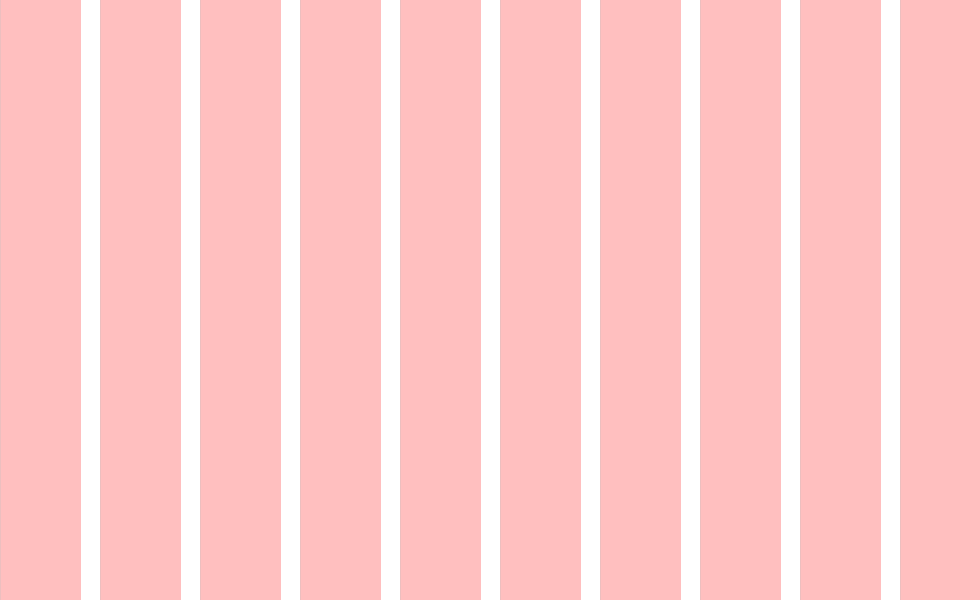
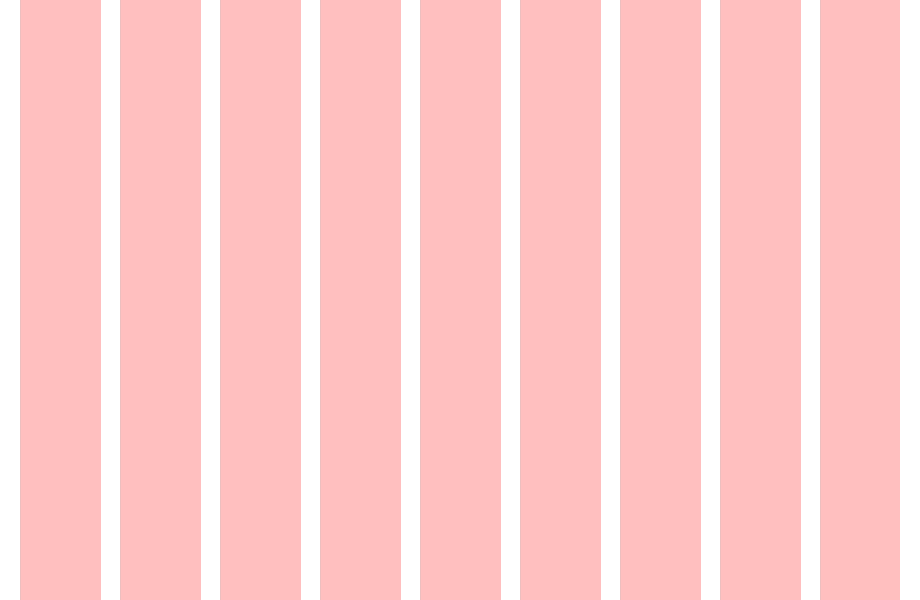
Drop a column from the grid

diff --git a/static/css/pickem.css b/static/css/pickem.css
@@ -4,7 +4,7 @@ html {
 }
 
 body {
-    width: 1020px;
+    width: 920px;
     background-color: #fff;
     margin: 0 auto;
     padding: 0;
@@ -25,10 +25,9 @@ a {
 div#grid {
     height: 100%;
     width: 100%;
-    background: transparent url(/static/img/grid.png) repeat-y top center;
+    background: transparent url(/static/img/grid.png) repeat-y top left;
     position: absolute;
     z-index: 1000;
-    opacity: 10%;
 }
 
 body.columns div.column {
@@ -38,11 +37,12 @@ body.columns div.column {
     the spacing */
     margin-right: 16px;
 }
-body.columns div.column:last-child {
-    margin-right: 0;
+body.columns div.right.column {
+    margin-right: 0 !important;
 }
 body.two.columns div.column {
-    width: 480px;
+    width: 380px;
+    margin-right: 116px;
 }
 body.three.columns div.left.column {
     width: 180px;
@@ -51,7 +51,7 @@ body.three.columns div.middle.column {
     width: 480px;
 }
 body.three.columns div.right.column {
-    width: 260px;
+    width: 180px;
 }
 
 
@@ -394,7 +394,7 @@ section#your-entries {
 
 section#your-entries ul {
     list-style-type: none;
-    margin: 1em 20px 0 0;
+    margin: 1em 0;
     padding: 0;
 }
 section#your-entries ul li {

diff --git a/templates/pools/_weeks.html b/templates/pools/_weeks.html
@@ -20,7 +20,7 @@
                     {% if week.closed %}
                         closed
                     {% else %}
-                        due {{ week.start|date('%m/%d @ %I:%M') }}
+                        due {{ week.start|date('%m/%d') }}
                     {% endif %}
                 </span>
             {% endif %}
